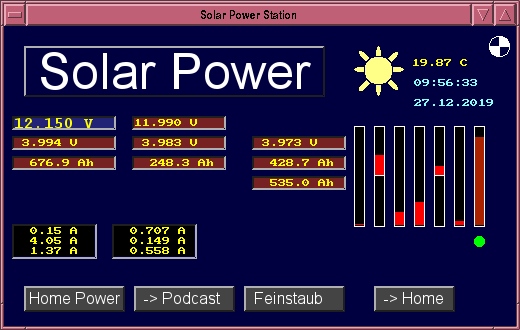
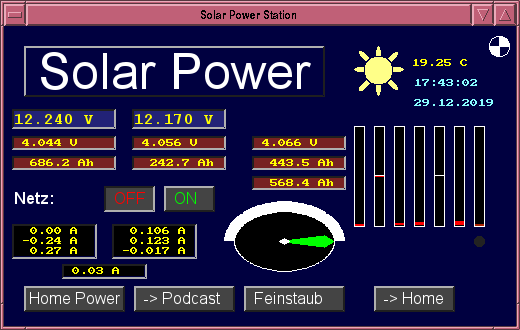
New battery Bitmaps, Update screenshots/dashbords & README

diff --git a/CONTRIBUTING.md b/CONTRIBUTING.md
@@ -2,28 +2,28 @@ Guide to contributing to MQTT-Hyperdash
 =======================================
 
 MQTT-Hyperdash was started in 2019 from the fact that there did not exist any 
-straigt forward easy to use Dashbord applications for linux, with which one 
+straight forward easy to use dashbord applications for linux, with which one 
 could quickly design a graphical user interface for MQTT parameters.
 
 However, such an application should not be too complicated and for performance 
 reasons it whould be written in C. (There existed other dashboards written in 
 Java-script and other languages, but they turned out to be way much too 
-complicated to install and use. 
+complicated to install and use.) 
 
 However, for designing a panel, a simple text editor shall be used. 
 The panels will be made from simple primitives. Some are static, some dynamic, 
 which means that they change their appearance according to the content of a 
-mqtt topic. Some allow User input, like buttons, potentiometers etc.
+mqtt topic. Some allow user input, like buttons, potentiometers etc.
 
-So there are things you can to. If you like you can specify new dynamic elements
-to be implemented. They should be describes in the doc sechtion and for 
+So there are things you can to. If you like, you can specify new dynamic elements
+to be implemented. First they should be described in the doc section, and for 
 implementing them there is a simple API.
 
 If you are a programmer with C skills, you are welcome to debug and improve the 
 code.
 
-If you like to design the dashboards itdself, please feel free to donate 
-you .dash file, so we can include them in our example collection. 
+If you like to design the dashboards itself, please feel free to donate 
+your .dash file, so we can include them in our example collection. 
 
 If you are a graphics designer we are happy to receive nice monochrome 
 bitmaps and color icons. 
@@ -35,7 +35,6 @@ More things left to do:
 - Optimize a bit more, improve performance,
 - The WINDOWS-Version needs more work,
 - work on the sound system,
-- work on the SDL-Graphics implementation (fill styles etc...),
 - documentation needs more work,
 - translate the user manual into other languares (german, french,...)
 - port it to apple ipad/iphone,
@@ -43,9 +42,17 @@ More things left to do:
 
 ## License and attribution
 
-All contributions must be properly licensed and attributed. If you are contributing your own original work, then you are offering it under a CC-BY license (Creative Commons Attribution). If it is code, you are offering it under the GPL-v2. You are responsible for adding your own name or pseudonym in the Acknowledgments file, as attribution for your contribution.
+All contributions must be properly licensed and attributed. If you are
+contributing your own original work, then you are offering it under a CC-BY
+license (Creative Commons Attribution). If it is code, you are offering it under
+the GPL-v2. You are responsible for adding your own name or pseudonym in the
+Acknowledgments file, as attribution for your contribution.
 
-If you are sourcing a contribution from somewhere else, it must carry a compatible license. The project was initially released under the GNU public licence GPL-v2 which means that contributions must be licensed under open licenses such as MIT, CC0, CC-BY, etc. You need to indicate the original source and original license, by including a comment above your contribution. 
+If you are sourcing a contribution from somewhere else, it must carry a
+compatible license. The project was initially released under the GNU public
+licence GPL-v2 which means that contributions must be licensed under open
+licenses such as MIT, CC0, CC-BY, etc. You need to indicate the original source
+and original license, by including a comment above your contribution. 
 
 
 ## Contributing with a Pull Request
@@ -65,7 +72,9 @@ The best way to contribute to this project is by making a pull request:
 
 ## Contributing with an Issue
 
-If you find a mistake and you're not sure how to fix it, or you don't know how to do a pull request, then you can file an Issue. Filing an Issue will help us see the problem and fix it.
+If you find a mistake and you're not sure how to fix it, or you don't know how
+to do a pull request, then you can file an Issue. Filing an Issue will help us
+see the problem and fix it.
 
 Create a [new Issue](https://github.com/kollokollo/MQTT-Hyperdash/issues/new) now!
 
@@ -73,7 +82,8 @@ Create a [new Issue](https://github.com/kollokollo/MQTT-Hyperdash/issues/new) no
 
 ## Thanks
 
-We are very grateful for your support. With your help, this BASIC implementation will be a great project. 
+We are very grateful for your support. With your help, this implementation
+will be a great project. 
 
 
 So you are welcome to help.
